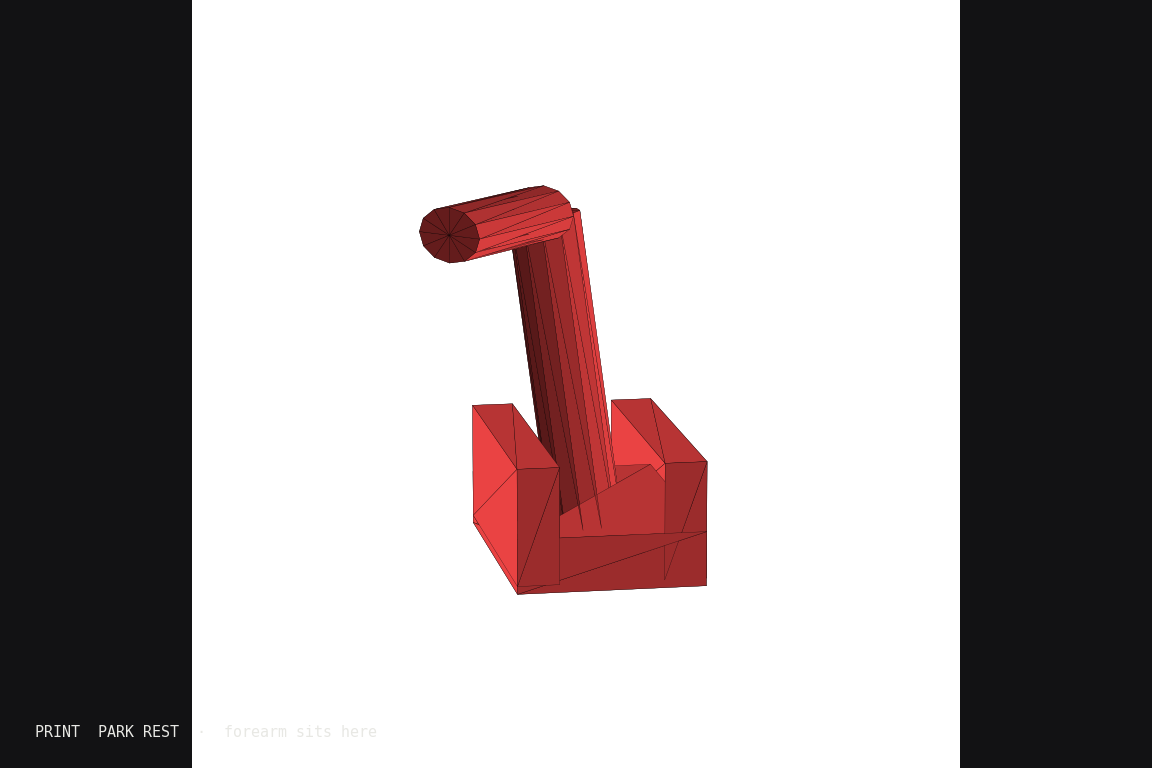
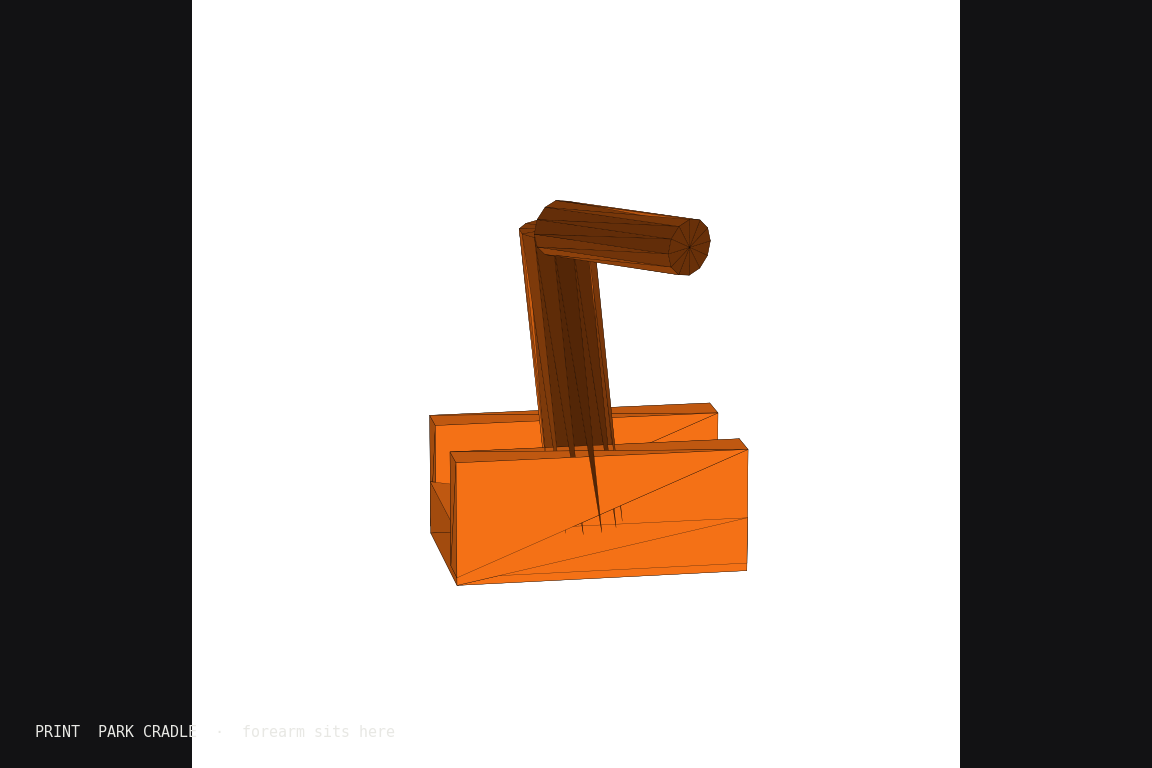
Shoot system stills from behind the right shoulder
Pack on the back, full right arm in frame. Same camera in the 3D viewer.

Changed region(s): [[0.3438, 0.2188, 0.6562, 0.7812], [0.125, 0.9375, 0.1562, 0.9688]]

diff --git a/src/components/cdx/cad-viewer.tsx b/src/components/cdx/cad-viewer.tsx
@@ -337,7 +337,7 @@ export function CadViewer({ kit = "elbow" }: { kit?: Kit }) {
         const size = box.getSize(new THREE.Vector3()).length() || 180;
         group.position.set(0, 0, 0);
         group.position.sub(center);
-        camera.position.set(size * 0.7, size * 0.28, size * 0.5);
+        camera.position.set(-size * 0.55, size * 0.22, size * 0.72);
         controls?.target.set(0, 0, 0);
         controls?.update();
       };

diff --git a/cad/system/render_previews.py b/cad/system/render_previews.py
@@ -1,5 +1,5 @@
 #!/usr/bin/env python3
-"""System stills: load path on the saddle, not the biceps."""
+"""System stills from behind-right: pack + full right arm."""
 from __future__ import annotations
 
 import json
@@ -12,7 +12,6 @@ matplotlib.use("Agg")
 import matplotlib.pyplot as plt
 import numpy as np
 from mpl_toolkits.mplot3d.art3d import Poly3DCollection
-from matplotlib.patches import Patch
 
 STL = Path("/workspace/public/cad/system")
 ASM = STL / "asm"
@@ -33,10 +32,10 @@ def read_stl(path: Path):
     return tris
 
 
-def render_layers(names, out, title, elev=18, azim=40):
-    fig = plt.figure(figsize=(9.6, 6.4), dpi=120, facecolor=BG)
+def render_layers(names, out, title, elev=8, azim=110):
+    fig = plt.figure(figsize=(9.6, 6.4), dpi=130, facecolor=BG)
     ax = fig.add_subplot(111, projection="3d")
-    chunks, legend = [], []
+    chunks = []
     for name in names:
         path = ASM / f"{name}.stl"
         if not path.exists():
@@ -49,24 +48,22 @@ def render_layers(names, out, title, elev=18, azim=40):
             Poly3DCollection(
                 tris,
                 facecolors=color,
-                edgecolors="#0a0a0c",
-                linewidths=0.08,
-                alpha=0.28 if ghost else 1.0,
+                edgecolors="#121214",
+                linewidths=0.02 if ghost else 0.06,
+                alpha=0.12 if ghost else 1.0,
                 shade=True,
             )
         )
         chunks.append(tris.reshape(-1, 3))
-        legend.append(Patch(facecolor=color, edgecolor="none", label=name.replace("_", " ")))
     pts = np.vstack(chunks)
-    c = (pts.max(0) + pts.min(0)) / 2
-    r = (pts.max(0) - pts.min(0)).max() / 2 or 1
-    ax.set_xlim(c[0] - r, c[0] + r)
-    ax.set_ylim(c[1] - r, c[1] + r)
-    ax.set_zlim(c[2] - r, c[2] + r)
-    ax.view_init(elev=12, azim=-55)
+    lo, hi = pts.min(0) - 30, pts.max(0) + 30
+    ax.set_xlim(lo[0], hi[0])
+    ax.set_ylim(lo[1], hi[1])
+    ax.set_zlim(lo[2], hi[2])
+    ax.set_box_aspect(tuple(hi - lo))
+    ax.view_init(elev=8, azim=130)
     ax.set_axis_off()
     ax.set_facecolor(BG)
-    ax.legend(handles=legend[:12], loc="upper left", fontsize=6, frameon=False, labelcolor="#e8e8e4")
     fig.text(0.03, 0.04, title, color="#e8e8e4", fontsize=9, fontfamily="monospace")
     fig.subplots_adjust(0, 0, 1, 1)
     fig.savefig(out, facecolor=BG)
@@ -85,7 +82,7 @@ def render(path, color, out, title):
     ax.set_xlim(c[0] - r, c[0] + r)
     ax.set_ylim(c[1] - r, c[1] + r)
     ax.set_zlim(c[2] - r, c[2] + r)
-    ax.view_init(elev=12, azim=-55)
+    ax.view_init(elev=14, azim=215)
     ax.set_axis_off()
     fig.text(0.03, 0.04, title, color="#e8e8e4", fontsize=9, fontfamily="monospace")
     fig.subplots_adjust(0, 0, 1, 1)
@@ -95,30 +92,50 @@ def render(path, color, out, title):
 
 def main():
     OUT.mkdir(parents=True, exist_ok=True)
-    load = ["human", "saddle", "yoke", "beam", "belt", "park", "strap", "ferrule", "housing", "cable_el", "cable_flex", "cable_abd"]
-    worn = load + [
+    load = ["human", "saddle", "yoke", "beam", "belt", "park", "strap", "pk_frame"]
+    worn = [
+        "human",
+        "saddle",
+        "yoke",
+        "beam",
+        "belt",
+        "park",
+        "strap",
         "pk_frame",
         "pk_battery",
         "pk_motor",
+        "pk_bulkhead",
+        "sh_cuff",
         "sh_sheave_flex",
         "sh_sheave_abd",
-        "sh_cuff",
         "el_cuff_upper",
         "el_cuff_forearm",
         "el_sheave",
         "el_lateral",
+        "housing",
+        "cable_el",
+        "cable_flex",
+        "cable_abd",
+        "ferrule",
     ]
     print("load path")
-    render_layers(load, OUT / "loadpath.png", "LOAD PATH  ·  amber saddle + red park rest  ·  not the biceps")
+    render_layers(load, OUT / "loadpath.png", "LOAD PATH  ·  behind-right  ·  pack + saddle + arm")
     print("worn")
-    render_layers(worn, OUT / "worn.png", "SYSTEM  ·  pack + shoulder 2R + elbow  ·  rest on the saddle")
+    render_layers(worn, OUT / "worn.png", "SYSTEM  ·  behind right shoulder  ·  pack and full right arm")
+    # human last so it doesn't paint over the exo; also a no-body crop
+    print("worn no body")
+    render_layers([n for n in worn if n != "human"], OUT / "worn_gear.png", "SYSTEM  ·  behind-right  ·  pack and right arm")
+    print("load path")
+    render_layers(load, OUT / "loadpath.png", "LOAD PATH  ·  behind-right  ·  pack + saddle + arm")
+    print("worn")
+    render_layers(worn, OUT / "worn.png", "SYSTEM  ·  behind right shoulder  ·  pack and full right arm")
     print("parts")
     jobs = [
         ("saddle.png", "print_saddle.stl", "#f59e0b", "PRINT  SHOULDER SADDLE  ·  exo sits here"),
         ("yoke.png", "print_yoke.stl", "#e2e8f0", "PRINT  YOKE  ·  pack to saddle"),
         ("beam.png", "print_ua_beam.stl", "#94a3b8", "PRINT  UPPER-ARM BEAM  ·  lateral, not through flesh"),
         ("belt.png", "print_hip_belt.stl", "#78716c", "PRINT  HIP BELT  ·  pack weight"),
-        ("park.png", "print_park_rest.stl", "#ef4444", "PRINT  PARK REST  ·  forearm sits here"),
+        ("park.png", "print_park_rest.stl", "#f97316", "PRINT  PARK CRADLE  ·  forearm sits here"),
     ]
     for name, src, color, title in jobs:
         render(STL / src, color, OUT / name, title)
